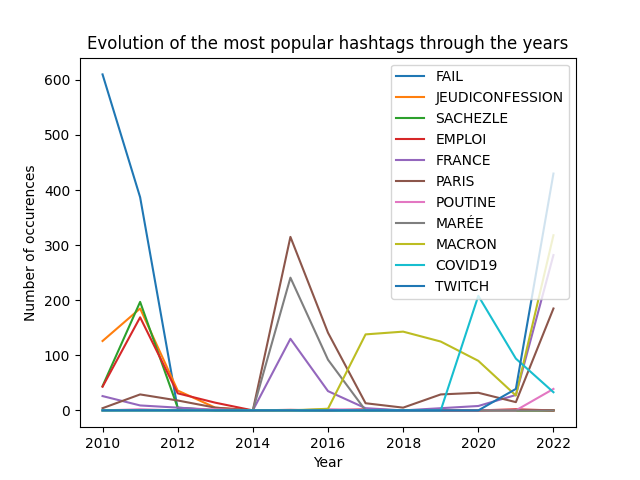
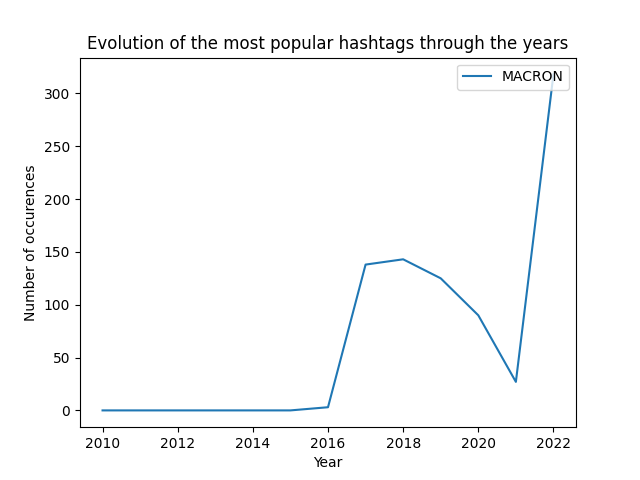
Plot on click

diff --git a/scripts/web/index.html b/scripts/web/index.html
@@ -70,9 +70,9 @@ color: white;
 </div>
 <div id="dynamic-plot">
 <img src="hashtags_evolution.png">
+<button onclick="plot()">Plot</button>
 </div>
 <script type="text/javascript">
-
 let currentperiodid = document.getElementById('periods').value;
 
 changePeriodJs(currentperiodid);
@@ -108,7 +108,6 @@ el.hidden=false;
 
 eel.expose(illustratePeriodJs);
 function illustratePeriodJs(periodinfos){
-console.log(periodinfos)
 for(let keywordinfo of periodinfos){
 let id = 'file-upload-'+keywordinfo.keyword.split(" ").join("-");
 let input = document.getElementById(id);
@@ -173,6 +172,10 @@ parent.appendChild(img)
 document.getElementById('crop-check').addEventListener('change',(evt)=>{
 changePeriodJs(currentperiodid)
 })
+
+function plot(){
+eel.plotPy()
+}
 </script>
 </body>
 </html>

diff --git a/uitemplate.html b/uitemplate.html
@@ -58,9 +58,9 @@
       </div>
       <div id="dynamic-plot">
         <img src="hashtags_evolution.png">
+        <button onclick="plot()">Plot</button>
       </div>
     <script type="text/javascript">
-
         let currentperiodid = document.getElementById('periods').value;
 
         changePeriodJs(currentperiodid);
@@ -160,6 +160,10 @@
         document.getElementById('crop-check').addEventListener('change',(evt)=>{
             changePeriodJs(currentperiodid)
         })
+
+        function plot(){
+            eel.plotPy()
+        }
     </script>
 </body>
 </html>

diff --git a/scripts/tweets/plots_tweets.py b/scripts/tweets/plots_tweets.py
@@ -11,9 +11,9 @@ import ast
 # --- Parameters ----------------------------------------------------------------------------------
 
 # NUMBER_TWEETS_TO_KEEP most popular hashtags
-NUMBER_TWEETS_TO_KEEP = 10 # Keep at 0 to disable
+NUMBER_TWEETS_TO_KEEP = 0 # Keep at 0 to disable
 # Search for the NUMBER_TWEETS_TO_KEEP hashtags
-SEARCHED_HASHTAGS = [] # Keep empty to disable
+SEARCHED_HASHTAGS = ["MACRON"] # Keep empty to disable
 
 FR_ONLY = True
 
@@ -169,9 +169,13 @@ def plot(NUMBER_TWEETS_TO_KEEP=NUMBER_TWEETS_TO_KEEP,
     plt.xlabel("Year")
     plt.ylabel("Number of occurences")
 
-    # Path to the CSV file
-    path = os.path.join(os.path.dirname(__file__), '../../images/hashtags_evolution.png')
-    # Save the figure
-    plt.savefig(path)
+    return plt
 
-    plt.show()
+    # # Path to the CSV file
+    # path = os.path.join(os.path.dirname(__file__), '../../images/hashtags_evolution.png')
+    # # Save the figure
+    # plt.savefig(path)
+
+    # plt.show()
+
+# plot()

diff --git a/scripts/ui.py b/scripts/ui.py
@@ -6,6 +6,8 @@ import imagelib
 from PIL import Image
 import json
 
+import tweets.plots_tweets as pt
+
 UI_FOLDER='web'
 TOP_HASHTAGS = '../data/tweets/most_used_hashtags.csv'
 
@@ -61,7 +63,12 @@ def startui():
        keywordinfo['score']= str(df.loc[df[periodid] ==  keywordinfo['keyword'], 'score '+periodid].values[0])
     eel.illustratePeriodJs(keywordsinfos)
 
+   @eel.expose
+   def plotPy():
+    plt = pt.plot()
+    plt.show()
 
    def close(route,sockets):
        exit()
-   eel.start('index.html',close_callback=close,size=(700,700))
+
+   eel.start('index.html',close_callback=close,size=(700,700),mode='chrome')
